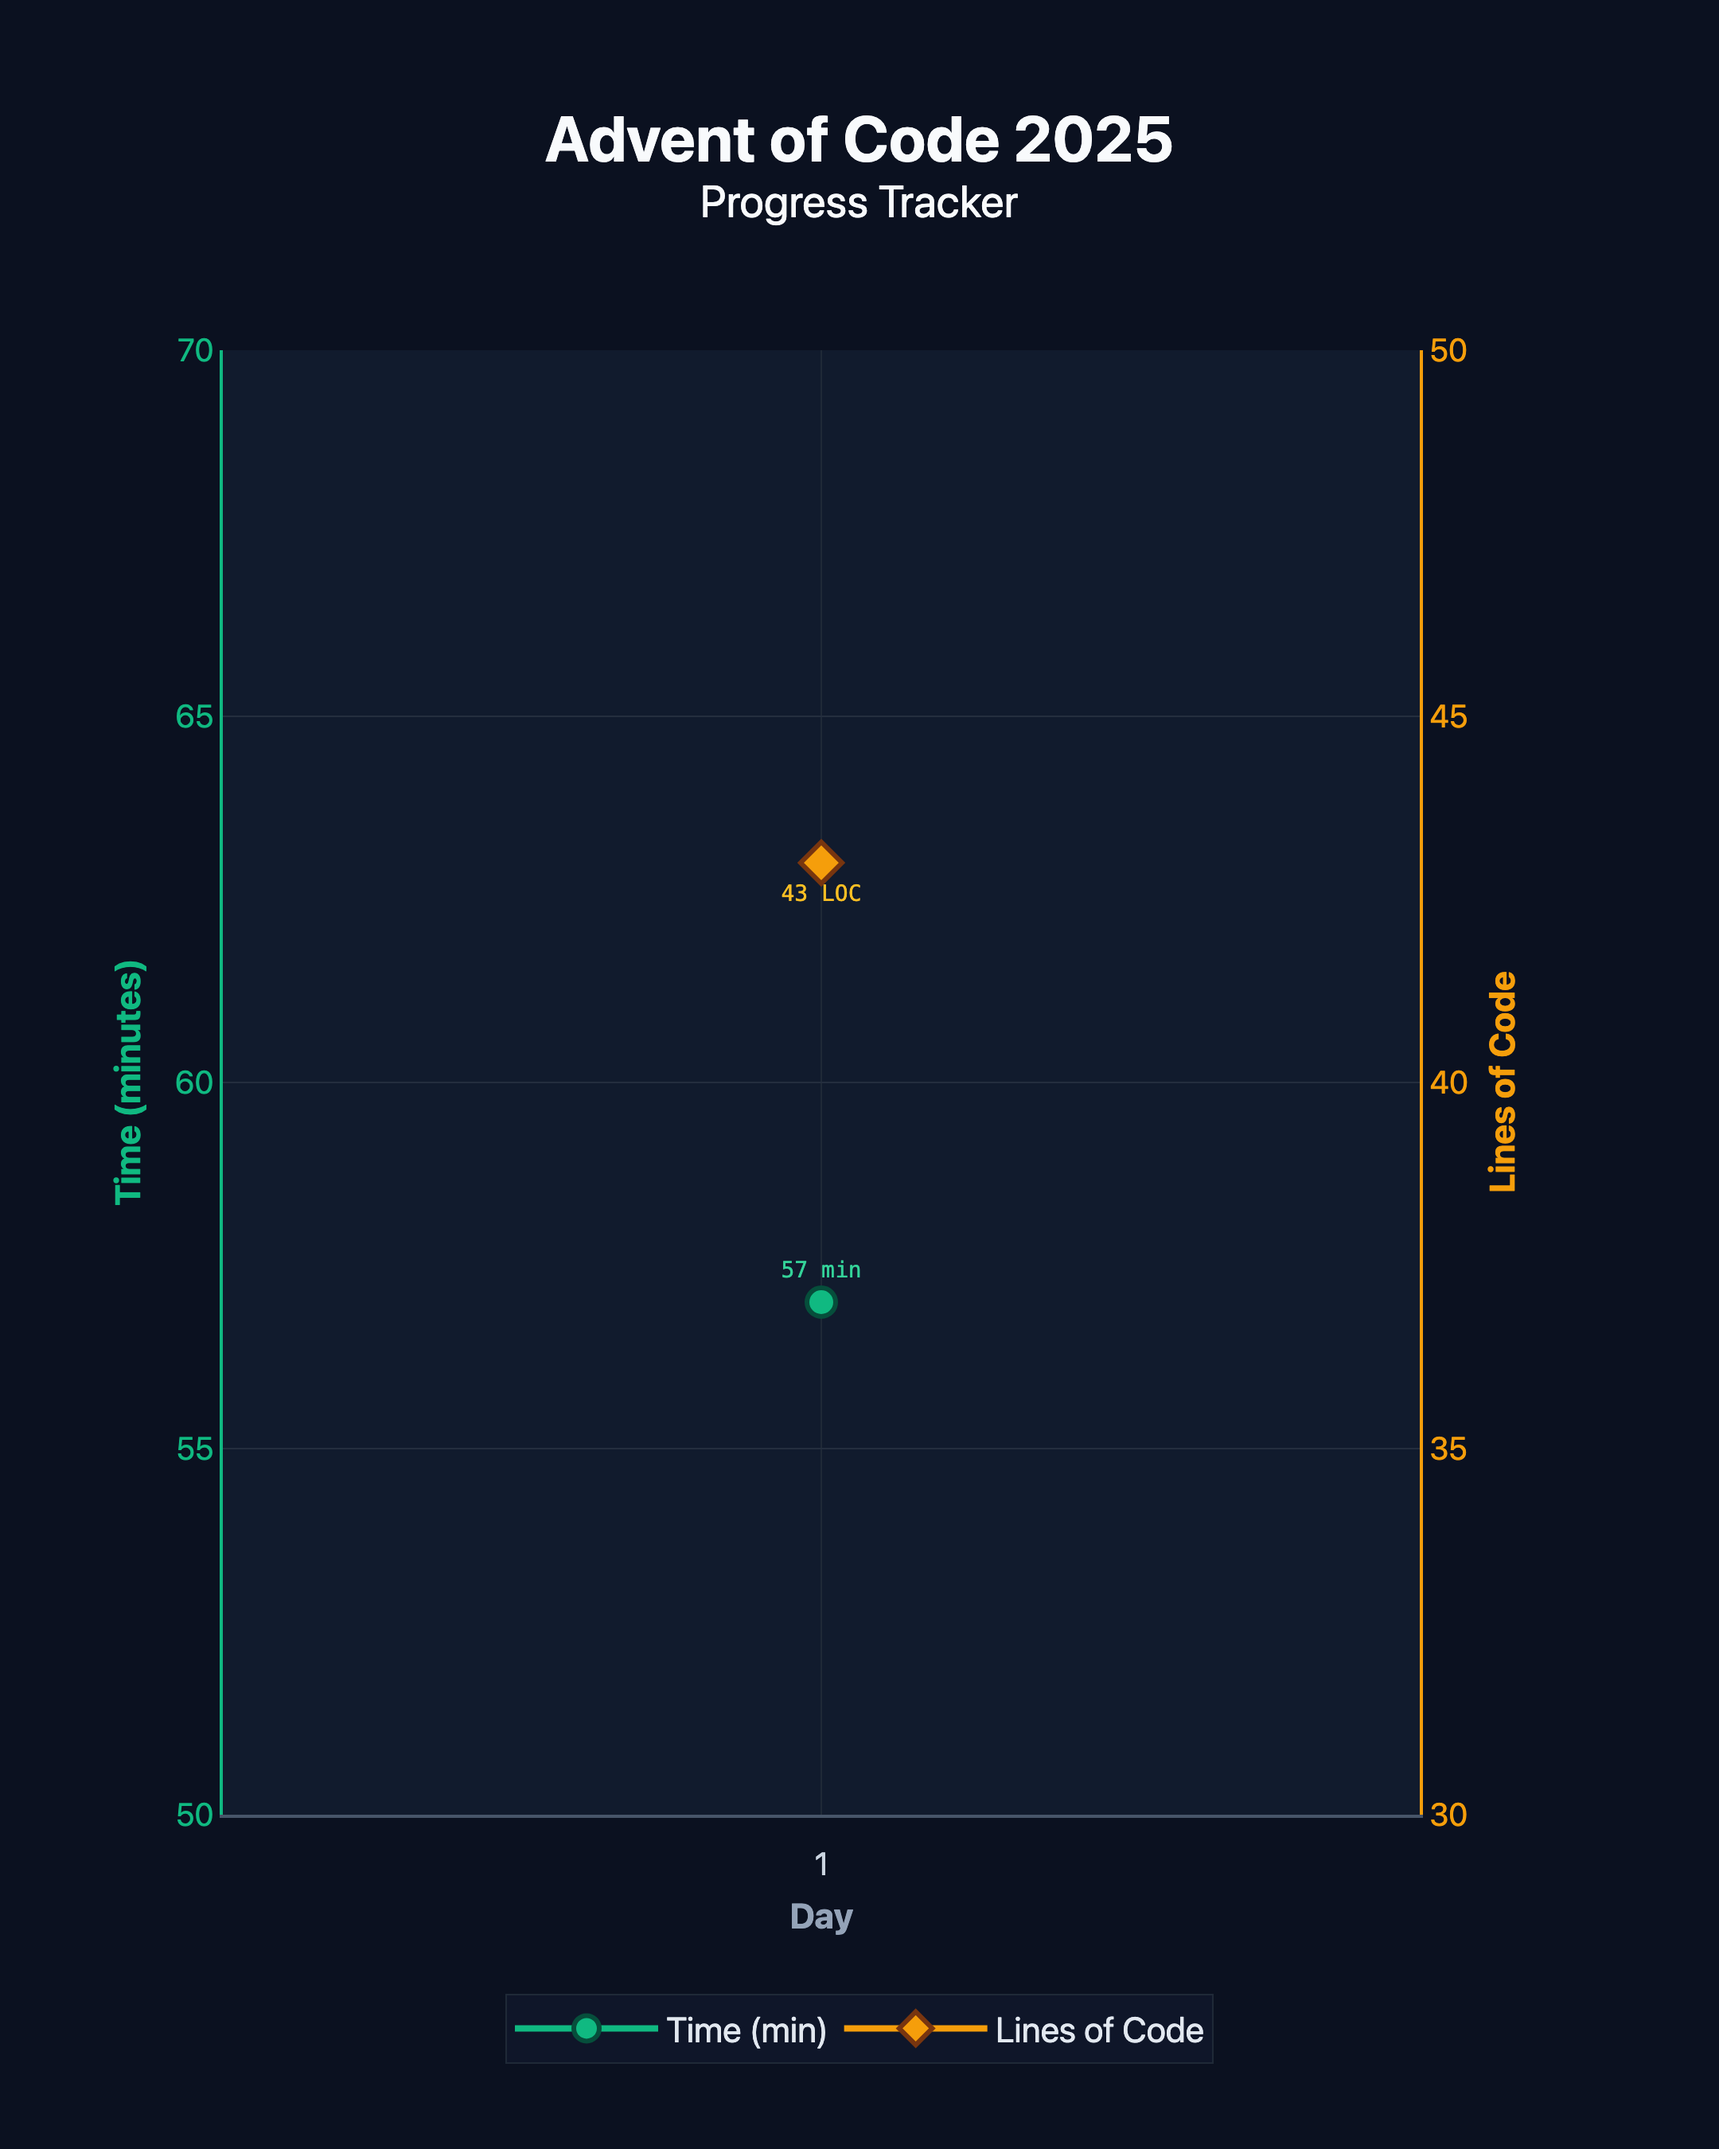
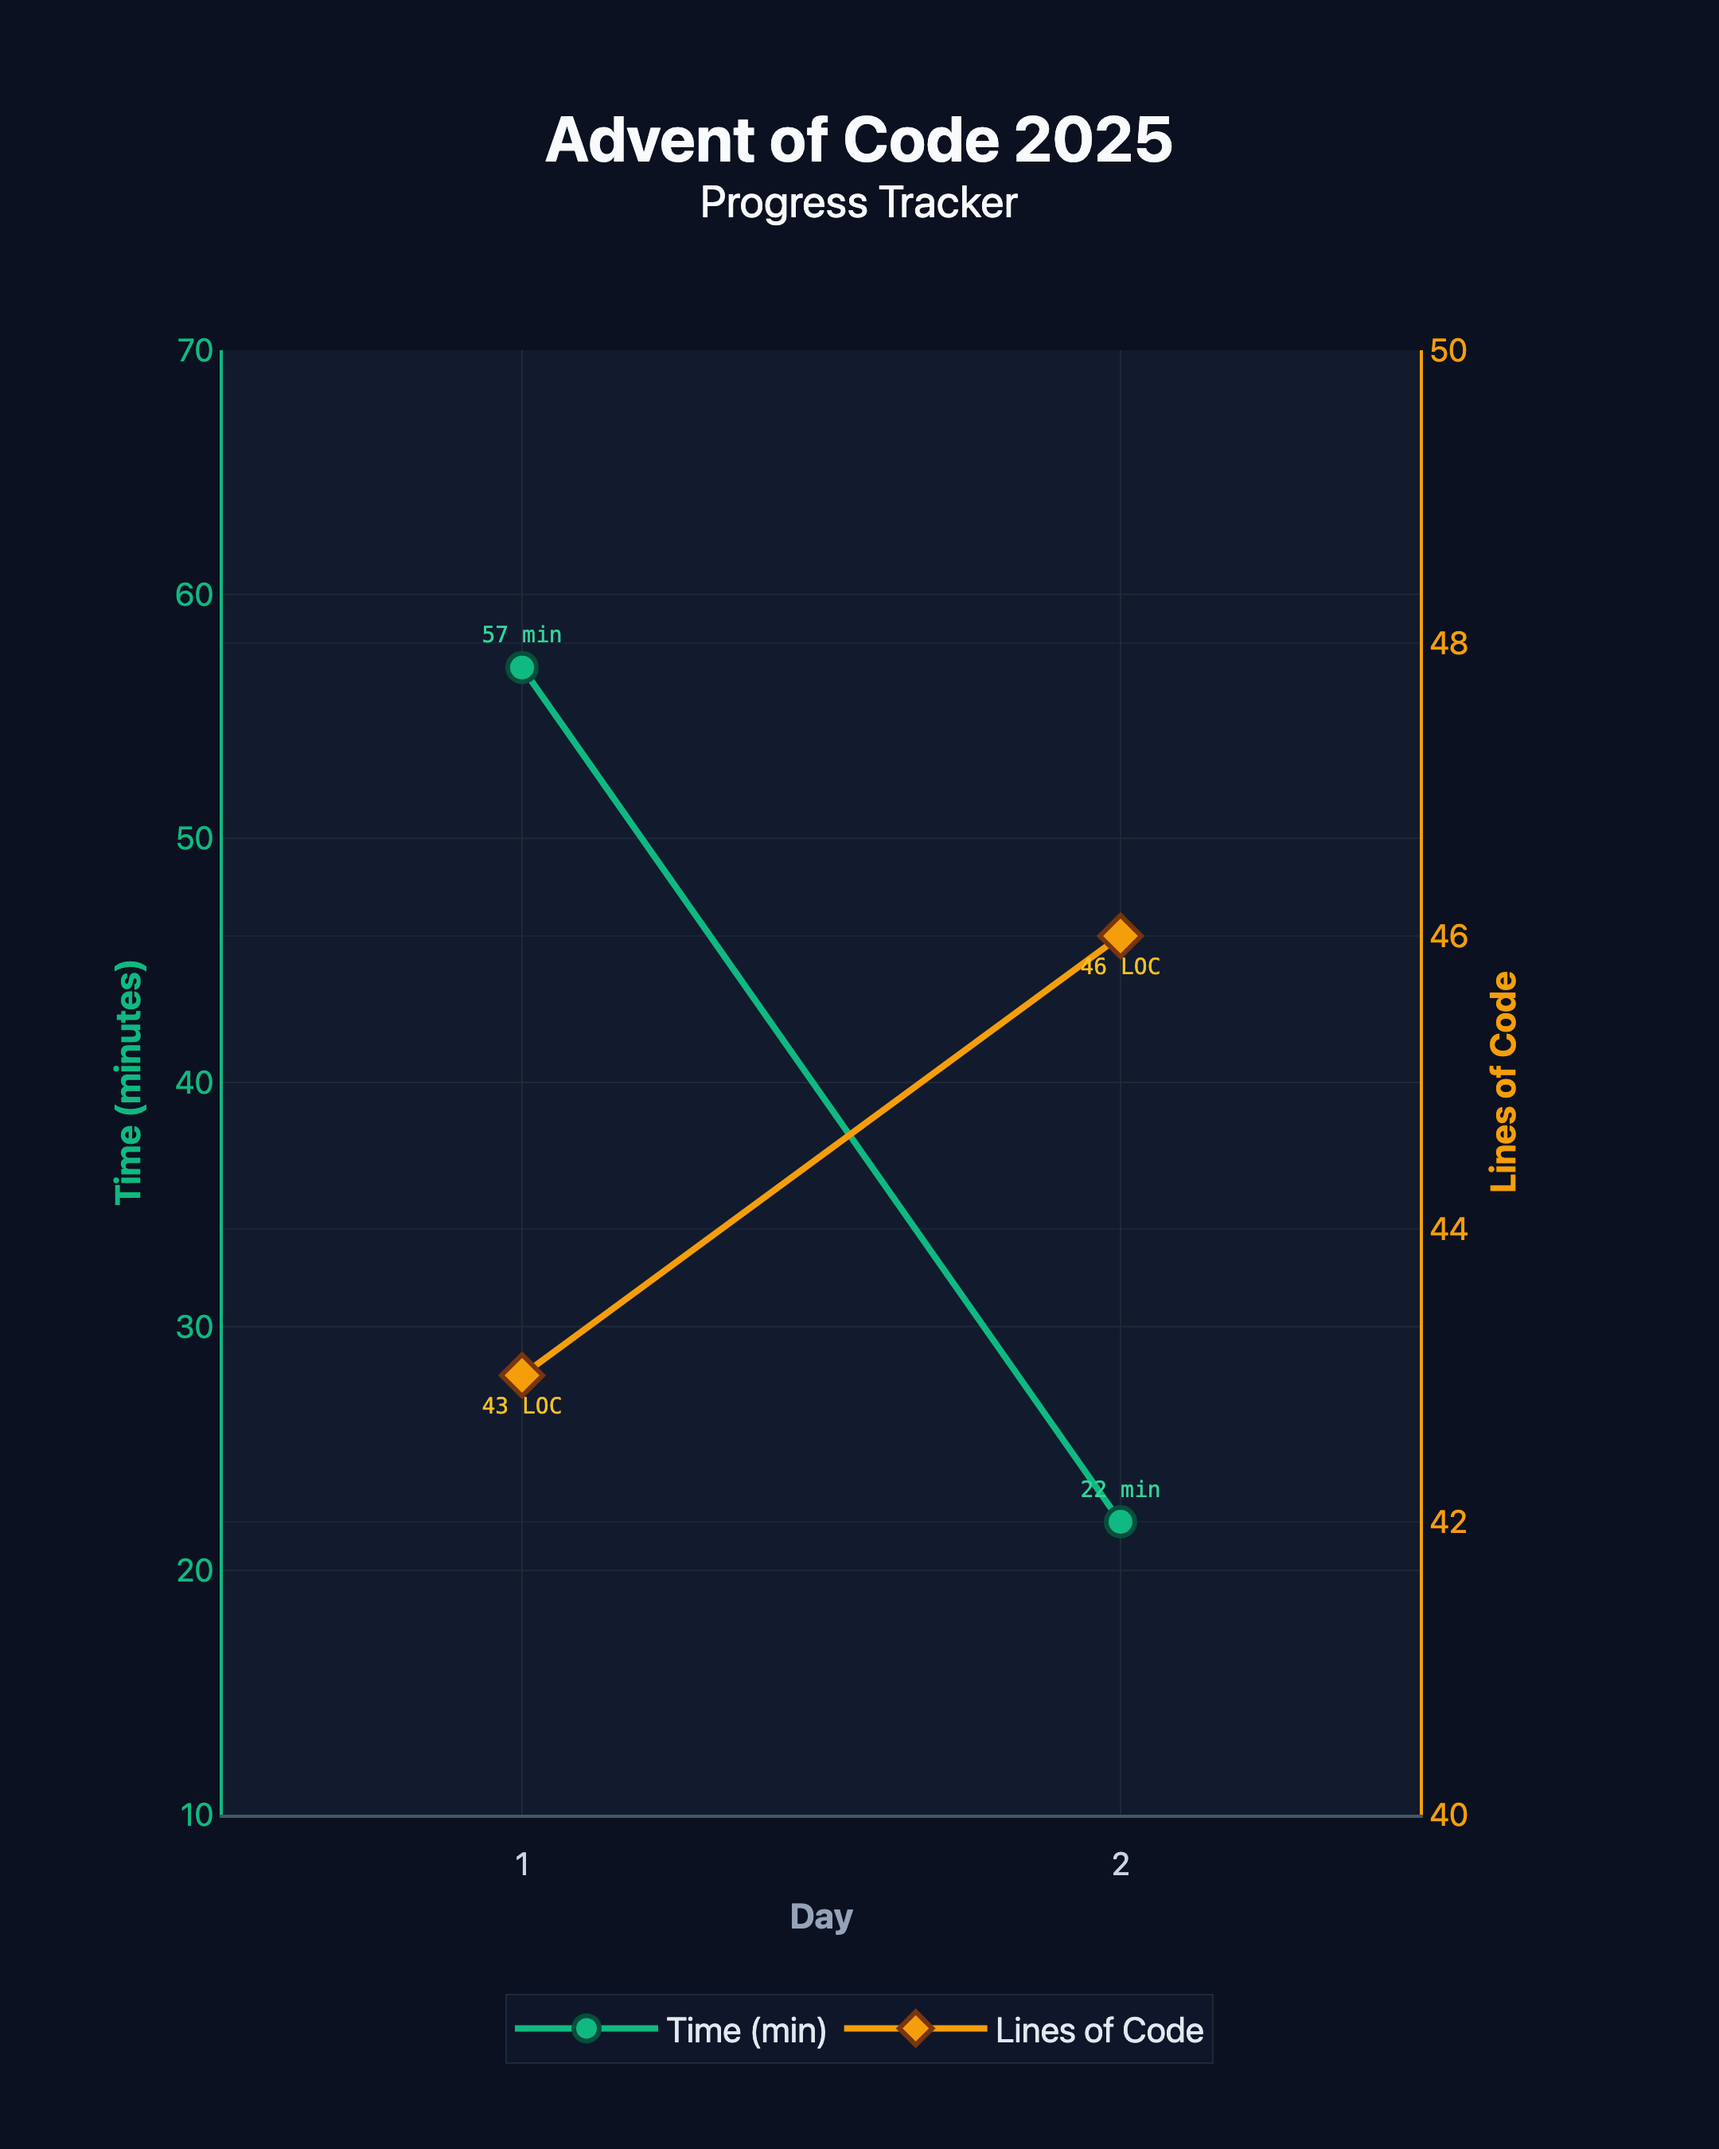
docs: Add setup instructions to README

diff --git a/day2/invalid_ids.py b/day2/invalid_ids.py
@@ -1,0 +1,67 @@
+from pathlib import Path
+import re
+import math
+
+# IN_FILE = Path("./demo_input.txt")
+IN_FILE = Path("./full_input.txt")
+
+def is_invalid_id_part1(num: int) -> bool:
+    n_digits = math.ceil(math.log10(num))
+    # ID must be even number of digits
+    if n_digits % 2:
+        return False
+
+    lower_half_mask = 10 ** (n_digits // 2)
+    lower_half = num % lower_half_mask
+    upper_half = (num - lower_half) // lower_half_mask
+
+    return lower_half == upper_half
+
+def part1():
+    pattern = re.compile(r'(\d+)-(\d+)')
+    invalid_sum = 0
+    for match in pattern.finditer(IN_FILE.read_text()):
+        range_start = int(match.group(1))
+        range_end = int(match.group(2))
+
+        for i in range(range_start, range_end + 1):
+            if is_invalid_id_part1(i):
+                invalid_sum += i
+
+    print(f"Part1 Invalid sum is: {invalid_sum}")
+
+def is_invalid_id_part2(num: int) -> bool:
+    num_str = str(num)
+    num_len = len(num_str)
+
+    for prefix_sz in range(1, (num_len // 2) + 1):
+        # Check if `prefix_sz` divides `num_len`, otherwise skip
+        if num_len % prefix_sz:
+            continue
+        n_prefixes = num_len // prefix_sz
+        prefix = num_str[:prefix_sz]
+
+        # Found an invalid match!
+        if prefix * n_prefixes == num_str:
+            return True
+
+    # No invalid match found
+    return False
+    
+def part2():
+    pattern = re.compile(r'(\d+)-(\d+)')
+    invalid_sum = 0
+    for match in pattern.finditer(IN_FILE.read_text()):
+        range_start = int(match.group(1))
+        range_end = int(match.group(2))
+
+        for i in range(range_start, range_end + 1):
+            if is_invalid_id_part2(i):
+                invalid_sum += i
+
+    print(f"Part2 Invalid sum is: {invalid_sum}")
+    
+if __name__ == "__main__":
+    part1()
+    part2()
+

diff --git a/README.md b/README.md
@@ -1,3 +1,23 @@
 # Advent of Code 2025
 
 My solutions for Advent of Code 2025.
+
+## Counting Lines of Code
+
+To count lines of code for a specific day's solution, navigate to the respective day directory and run:
+
+```bash
+cloc . --exclude-lang=Text,Markdown
+```
+
+## Generating the Progress Chart
+
+To generate the progress chart (`progress.png`), run:
+
+```bash
+python generate_graph.py
+```
+
+## Generating a Tweet
+
+Use the `/tweet` command to generate a tweet summarizing your progress.

diff --git a/day2/REMARKS.md b/day2/REMARKS.md
@@ -1,0 +1,7 @@
+---
+time: 22
+loc: 46
+---
+# Remarks
+
+This problem was generally quite easy. I got carried away working in the numbers space for part one, doing the invalid ID detection with modulos. Then for part 2, I realized just casting the ID to a string and working with string operations was much much simpler. I should have done that also for part 1.
